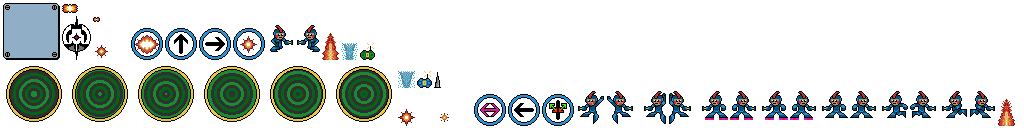
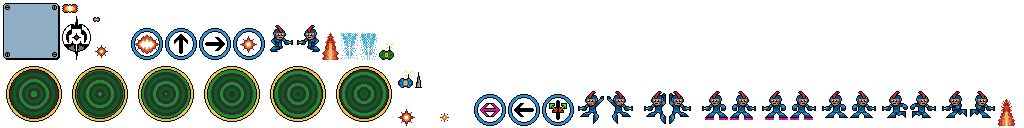
replaced geiser assets

Changed region(s): [[0.3125, 0.25, 0.4062, 0.4688], [0.375, 0.5625, 0.4375, 0.6875]]

diff --git a/core/src/com/udacity/gamedev/gigagal/util/Constants.java b/core/src/com/udacity/gamedev/gigagal/util/Constants.java
@@ -93,11 +93,11 @@ public final class Constants {
     public static final String FLAME_SPRITE_2 = "flame-2";
 
     // Geiser
-    public static final Vector2 GEISER_CENTER = new Vector2(8.5f, 8.5f);
+    public static final Vector2 GEISER_CENTER = new Vector2(8.5f, 17.5f);
     public static final float GEISER_DURATION = 0.2f;
     public static final int GEISER_DAMAGE = 15;
     public static final float GEISER_COLLISION_WIDTH = 15;
-    public static final float GEISER_COLLISION_HEIGHT = 15;
+    public static final float GEISER_COLLISION_HEIGHT = 25;
     public static final String GEISER_SPRITE_1 = "geiser-1";
     public static final String GEISER_SPRITE_2 = "geiser-2";
 
